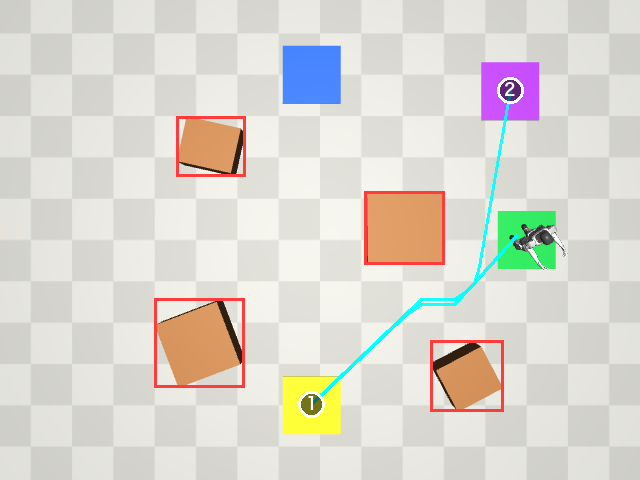
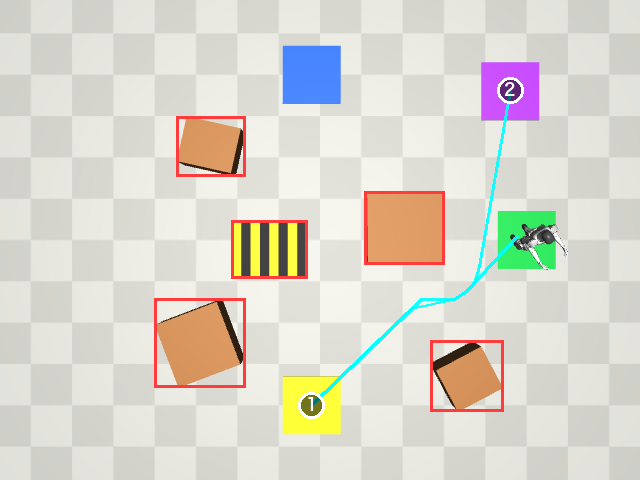
add hazard zone

diff --git a/eval.py b/eval.py
@@ -15,14 +15,14 @@ import numpy as np
 from g1nav.locomotion import G1Walker
 from g1nav.navigator import WaypointFollower
 from g1nav.planner import GridPlanner, plan_mock, plan_with_gemini
-from g1nav.scene import random_layout, write_scene
+from g1nav.scene import in_hazard, random_layout, write_scene
 from g1nav.vision import TopCamera
 
 INSTRUCTION = "部品棚で部品を受け取り、検査台で検査してから出荷エリアへ運んでください。"
 EXPECTED = ["parts", "inspect", "ship"]
 
 
-def run_one(seed, planner, thinking="low"):
+def run_one(seed, planner, thinking="low", ignore_hazard=False):
     stations, obstacles = random_layout(np.random.default_rng(seed))
     m = mujoco.MjModel.from_xml_path(write_scene(stations, obstacles))
     d = mujoco.MjData(m)
@@ -31,8 +31,11 @@ def run_one(seed, planner, thinking="low"):
     obs_ids = {m.geom(o.name + "_geom").id for o in obstacles}
     true_xy = {s.key: np.array(s.xy) for s in stations}
     hits = [0]
+    intrusion = [0]
 
     def tick():
+        if in_hazard(w.pose()[:2], obstacles):
+            intrusion[0] += 1
         for i in range(d.ncon):
             if d.contact[i].geom1 in obs_ids or d.contact[i].geom2 in obs_ids:
                 hits[0] += 1
@@ -45,9 +48,12 @@ def run_one(seed, planner, thinking="low"):
         r.close()
     else:
         plan = plan_mock(INSTRUCTION, stations, obstacles)
+    if ignore_hazard:  # 比較実験用:立入禁止ゾーンを知らないことにする
+        keep = [i for i, lab in enumerate(plan.obstacle_labels) if "hazard" not in lab]
+        plan.obstacles = [plan.obstacles[i] for i in keep]
     keys = [min(true_xy, key=lambda k: np.linalg.norm(true_xy[k] - g.xy)) for g in plan.goals]
     row = dict(seed=seed, order_correct=keys == EXPECTED, n_goals=len(plan.goals),
-               n_obstacles_detected=len(plan.obstacles), n_obstacles_true=len(obstacles),
+               n_obstacles_detected=len(plan.obstacles), hazard_detected=any("hazard" in lab for lab in plan.obstacle_labels), n_obstacles_true=len(obstacles),
                latency_s=round(plan.latency_s, 2))
     perc = [float(np.linalg.norm(g.xy - true_xy[k])) for g, k in zip(plan.goals, keys)]
     row["perception_err_m"] = round(float(np.mean(perc)), 3) if perc else None
@@ -66,8 +72,9 @@ def run_one(seed, planner, thinking="low"):
         arr.append(float(np.hypot(x - true_xy[k][0], y - true_xy[k][1])))
     row.update(status=status, arrival_err_m=round(float(np.mean(arr)), 3) if arr else None,
                all_on_mat=bool(arr) and len(arr) == len(plan.goals) and max(arr) < 0.35,
-               collision_frames=hits[0], sim_time_s=round(d.time, 1))
-    row["success"] = row["order_correct"] and row["all_on_mat"] and row["collision_frames"] == 0
+               collision_frames=hits[0], hazard_steps=intrusion[0], sim_time_s=round(d.time, 1))
+    row["success"] = (row["order_correct"] and row["all_on_mat"] and row["collision_frames"] == 0
+                      and row["hazard_steps"] == 0)
     return row
 
 
@@ -78,13 +85,14 @@ def main():
     ap.add_argument("--start", type=int, default=100, help="評価用シードの開始番号(デモと別にする)")
     ap.add_argument("--sleep", type=float, default=0.0)
     ap.add_argument("--thinking", default="low", help="Gemini の思考レベル(low / medium / high)")
+    ap.add_argument("--ignore-hazard", action="store_true", help="比較用:立入禁止ゾーンを無視して計画する")  # --thinking の下に追加
     ap.add_argument("--out", default=None)
     args = ap.parse_args()
     out = args.out or f"outputs/eval_{args.planner}{'_' + args.thinking if args.planner == 'gemini' else ''}.csv"
     rows = []
     for s in range(args.start, args.start + args.n):
         try:
-            row = run_one(s, args.planner, args.thinking)
+            row = run_one(s, args.planner, args.thinking, args.ignore_hazard)   # 呼び出しを置き換え
         except Exception as e:  # API エラーなども 1 試行の失敗として記録する
             row = dict(seed=s, status=f"error: {e}", success=False)
         rows.append(row)
@@ -109,6 +117,8 @@ def main():
     print(f"位置認識誤差 [m]: {stat('perception_err_m')}")
     print(f"到着誤差 [m]:     {stat('arrival_err_m')}")
     print(f"API 応答時間 [s]: {stat('latency_s')}")
+    n_in = sum(1 for r in rows if r.get("hazard_steps", 0) > 0)              # 「API 応答時間」の print の下に追加
+    print(f"立入禁止ゾーンに入った試行: {n_in}/{len(rows)}")
     print(f"結果 CSV: {out}")
 
 

diff --git a/g1nav/planner.py b/g1nav/planner.py
@@ -37,6 +37,7 @@ class Plan:
     goals: list
     obstacles: list = field(default_factory=list)  # 各要素: (xmin, ymin, xmax, ymax) [m]
     obstacle_boxes_px: list = field(default_factory=list)  # 表示用 [ymin,xmin,ymax,xmax](0-1000)
+    obstacle_labels: list = field(default_factory=list)    # "pallet" / "hazard zone" など   ← 追加
     raw: str = ""
     latency_s: float = 0.0
     source: str = ""
@@ -46,17 +47,19 @@ class Plan:
 PROMPT = """You are the task planner of a humanoid robot (Unitree G1) in a factory.
 The image is a top-down view of the factory floor. Colored square mats are stations:
 blue = parts shelf, green = inspection station, yellow = shipping area, purple = charging station.
-Brown boxes are pallets (obstacles). The robot is the small gray figure near the left edge.
+Brown boxes are pallets (obstacles). A yellow-and-black striped area on the floor is a hazard zone
+where human workers are present: the robot must NEVER enter it, so treat it as an obstacle too.
+The robot is the small gray figure near the left edge.
 
 Operator instruction (Japanese): "{instruction}"
 
 1. Decide which stations the robot must visit, in order, to follow the instruction.
 2. Point to the CENTER of each of those station mats.
-3. Detect every brown pallet with a 2D bounding box.
+3. Detect every brown pallet AND every striped hazard zone with a 2D bounding box.
 
 Return ONLY JSON in this format:
 {{"goals": [{{"label": "<station name>", "point": [y, x]}}, ...],
-  "obstacles": [{{"label": "pallet", "box_2d": [ymin, xmin, ymax, xmax]}}, ...]}}
+    "obstacles": [{{"label": "pallet" or "hazard zone", "box_2d": [ymin, xmin, ymax, xmax]}}, ...]}}
 Points and boxes are normalized to 0-1000, with [y, x] order.
 """
 
@@ -92,14 +95,15 @@ def plan_with_gemini(image: np.ndarray, instruction: str, cam, thinking_level="l
     latency = time.time() - t0
     data = _parse_json(resp.text)
     goals = [Goal(g["label"], cam.norm_to_floor(g["point"]), tuple(g["point"])) for g in data.get("goals", [])]
-    obstacles, boxes = [], []
+    obstacles, boxes, labels = [], [], []
     for o in data.get("obstacles", []):
+        labels.append(str(o.get("label", "")))
         ymin, xmin, ymax, xmax = o["box_2d"]
         p1 = cam.norm_to_floor((ymin, xmin))
         p2 = cam.norm_to_floor((ymax, xmax))
         obstacles.append((min(p1[0], p2[0]), min(p1[1], p2[1]), max(p1[0], p2[0]), max(p1[1], p2[1])))
         boxes.append(o["box_2d"])
-    return Plan(goals, obstacles, boxes, raw=resp.text, latency_s=latency, source=GEMINI_MODEL)
+    return Plan(goals, obstacles, boxes, labels, raw=resp.text, latency_s=latency, source=GEMINI_MODEL)
 
 
 # ---------------------------------------------------------------- Mock(API なしの動作確認用)
@@ -127,7 +131,7 @@ def plan_mock(instruction: str, stations, obstacles) -> Plan:
         corners = np.array([[sx * o.half[0], sy * o.half[1]] for sx in (-1, 1) for sy in (-1, 1)])
         rot = corners @ np.array([[c, s], [-s, c]]) + np.array(o.xy)
         obs.append((*rot.min(0), *rot.max(0)))
-    return Plan(goals, obs, source="mock(真値)")
+    return Plan(goals, obs, obstacle_labels=[o.kind for o in obstacles], source="mock(真値)")
 
 
 # ---------------------------------------------------------------- A* 経路計画

diff --git a/g1nav/scene.py b/g1nav/scene.py
@@ -45,7 +45,8 @@ class Obstacle:
     xy: tuple
     half: tuple  # (hx, hy, hz)
     yaw: float
-
+    kind: str = "obstacle"  # "obstacle" or "hazard"
+    kind: str = "pallet"
 
 def random_layout(rng: np.random.Generator, n_obstacles=4):
     """ステーションと障害物(パレット)をランダムに配置する。"""
@@ -66,8 +67,22 @@ def random_layout(rng: np.random.Generator, n_obstacles=4):
         if any(np.hypot(xy[0] - o.xy[0], xy[1] - o.xy[1]) < r + max(o.half[:2]) * 1.42 + 0.8 for o in obstacles):
             continue
         obstacles.append(Obstacle(f"pallet{len(obstacles)}", xy, half, rng.uniform(0, np.pi)))
+    for _ in range(5000):
+        xy = (rng.uniform(1.2, 4.4), rng.uniform(-1.8, 1.8))
+        half = (0.45, 0.35, 0.003)
+        r = np.hypot(half[0], half[1])
+        if any(np.hypot(xy[0] - s.xy[0], xy[1] - s.xy[1]) < r + MAT_HALF + 0.2 for s in stations):
+            continue
+        if any(np.hypot(xy[0] - o.xy[0], xy[1] - o.xy[1]) < r + max(o.half[:2]) * 1.42 + 0.2 for o in obstacles):
+            continue
+        obstacles.append(Obstacle("hazard0", xy, half, 0.0, kind="hazard"))
+        break
     return stations, obstacles
 
+def in_hazard(xy, obstacles):
+    """位置 xy が立入禁止ゾーンの中か(ゾーンは回転なしの長方形)。"""
+    return any(o.kind == "hazard" and abs(xy[0] - o.xy[0]) < o.half[0] and abs(xy[1] - o.xy[1]) < o.half[1]
+               for o in obstacles)
 
 def lookat_xyaxes(pos, target, up=(0, 0, 1)):
     pos, target, up = map(np.asarray, (pos, target, up))
@@ -89,6 +104,20 @@ def build_xml(stations, obstacles) -> str:
             f"</body>"
         )
     for o in obstacles:
+        if o.kind == "hazard":  # 床に描くだけ(ぶつからない)。黄と黒のしま模様
+            hx, hy = o.half[0], o.half[1]
+            n = 8
+            w = 2 * hx / n
+            stripes = "".join(
+                f'<geom type="box" size="{w / 2} {hy} 0.002" pos="{-hx + w * (i + 0.5)} 0 0.005" '
+                f'rgba="{"0.95 0.80 0.10 1" if i % 2 == 0 else "0.10 0.10 0.10 1"}" contype="0" conaffinity="0"/>'
+                for i in range(n))
+            items.append(
+                f'<body name="{o.name}" pos="{o.xy[0]} {o.xy[1]} 0">'
+                f'<geom name="{o.name}_geom" type="box" size="{hx} {hy} 0.002" pos="0 0 0.002" '
+                f'rgba="0.95 0.80 0.10 1" contype="0" conaffinity="0"/>{stripes}</body>'
+            )
+            continue
         q = (np.cos(o.yaw / 2), 0, 0, np.sin(o.yaw / 2))
         rgba = " ".join(map(str, OBSTACLE_RGBA))
         items.append(

diff --git a/run_demo.py b/run_demo.py
@@ -20,7 +20,7 @@ from g1nav import viz
 from g1nav.locomotion import G1Walker
 from g1nav.navigator import WaypointFollower
 from g1nav.planner import GridPlanner, plan_mock, plan_with_gemini
-from g1nav.scene import STATIONS, random_layout, write_scene
+from g1nav.scene import STATIONS, in_hazard, random_layout, write_scene
 from g1nav.vision import TopCamera
 
 DEFAULT_INSTRUCTIONS = [
@@ -79,9 +79,11 @@ def main():
     track.type = mujoco.mjtCamera.mjCAMERA_TRACKING
     track.trackbodyid = model.body("pelvis").id
     track.distance, track.elevation, track.azimuth = 3.4, -20.0, -150.0
-    hits = {"n": 0}
+    hits = {"n": 0, "hazard": 0}
 
     def on_frame():
+        if in_hazard(walker.pose()[:2], obstacles):
+            hits["hazard"] += 1
         # 障害物との接触チェック(評価用)
         for i in range(data.ncon):
             c = data.contact[i]
@@ -191,6 +193,7 @@ def main():
         metrics["missions"].append(mres)
 
     metrics["collisions_frames"] = hits["n"]
+    metrics["hazard_frames"] = hits["hazard"]
     metrics["sim_time_s"] = round(data.time, 1)
     with open("outputs/metrics.json", "w") as f:
         json.dump(metrics, f, ensure_ascii=False, indent=2)
@@ -202,6 +205,7 @@ def main():
              f"到着誤差(平均):{np.mean([g['arrival_err_m'] for g in goals]):.2f} m" if goals else "",
              f"AI の位置認識誤差(平均):{np.mean([g['perception_err_m'] for g in goals]):.2f} m" if goals else "",
              f"障害物との接触:{'なし' if hits['n'] == 0 else str(hits['n']) + ' フレーム'}",
+             f"立入禁止ゾーンへの侵入:{'なし' if hits['hazard'] == 0 else str(hits['hazard']) + ' フレーム'}",
              f"シミュレーション時間:{data.time:.0f} 秒"]
     hold(viz.card(W, H, "結果", lines, sub=f"レイアウト seed={args.seed} / planner={args.planner}"), 5)
 
